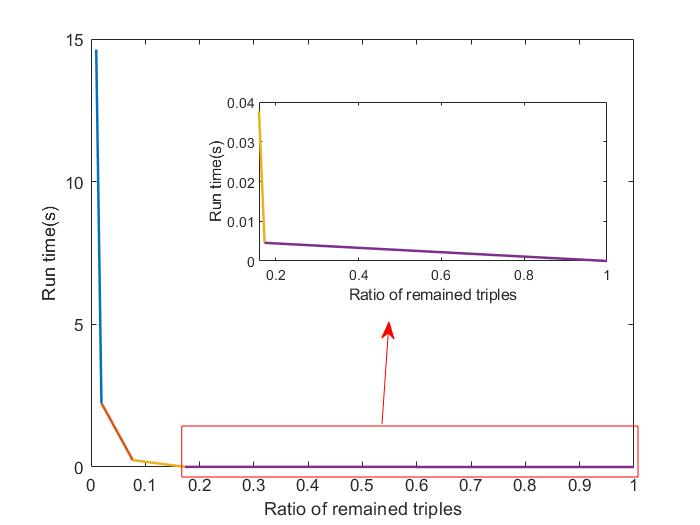
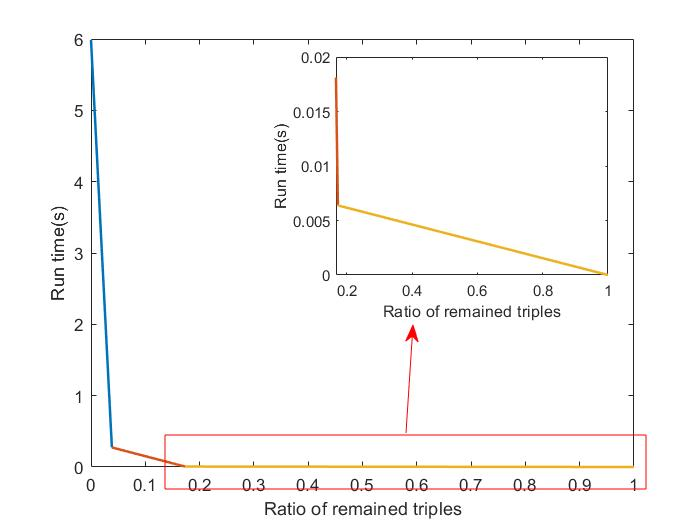
fix: change compression logic

diff --git a/multiRound.m b/multiRound.m
@@ -1,40 +1,54 @@
-function [Gn,On,conditions,Tn]=multiRound(Go,Oo,G_shared,n)
+function [Gn,On,conditions,Tn]=multiRound(Go_,Oo,G_shared,n)
+    Go=Go_;
     num=size(Go,1);
     omit_num=0;
     send_num=0;
     On=cell(1,3);
     Gn=cell(1,3);
     Tn=0;
-    conditions=cell(1,size(Oo,2));
-    tic;
-    for i=1:num
-        delta=findQuadruple(G_shared,Go(i,:));% Curresponding quadruple
-        dimensions=zeros(1,n);
-        for j=1:n-1
-            dimensions(j)=size(Oo{j},1);% The number of omitted triples
-        end
-        dimensions(n)=size(delta{2},1);% The number of relations for the current 2 entities
-        P=getPMatrix(delta,Oo,G_shared,dimensions);
-        index=-1;
-        for r=1:size(delta{2},1)
-            if strcmp(delta{2}{r},Go{i,2})
-                index=r;
-                break;
+    conditions=cell(1,n-1);
+    have_updated=0;
+    Oo_=cat(1,Oo{:});
+    while(1)
+        tic;
+        for i=1:num
+            delta=findQuadruple(G_shared,Go(i,:));
+            comb=nchoosek(1:size(Oo_,1),n-1);
+            P=getPMatrix(delta,Oo_,G_shared,comb);
+            index=-1;
+            for r=1:size(delta{2},1)
+                if strcmp(delta{2}{r},Go{i,2})
+                    index=r;
+                    break;
+                end
+            end
+            c=findP(P,index,comb);% Conditions: the indices of omitted triples
+            %if strcmp(delta{2}{index,1},Go{num,2})
+            if c(1)==-1
+                send_num=send_num+1;
+                [Gn{send_num,:}]=deal(Go{i,:});
+            else
+                have_updated=1;
+                omit_num=omit_num+1;
+                [On{omit_num,:}]=deal(Go{i,:});
+                conditions{omit_num}=c;
+                dt=toc;
+                Tn=Tn+dt;
+                tic;
             end
         end
-        c=findP(P,index);% Conditions: the indices of omitted triples
-        %if strcmp(delta{2}{index,1},Go{num,2})
-        if c(1)==-1
-            send_num=send_num+1;
-            [Gn{send_num,:}]=deal(Go{i,:});
-        else
-            omit_num=omit_num+1;
-            [On{omit_num,:}]=deal(Go{i,:});
-            conditions{omit_num}=c;
-            dt=toc;
-            Tn=Tn+dt;
-            tic;
+        if have_updated==0
+            break;
         end
+        if isempty(Gn{1})
+            break;
+        end
+        Oo_=[cat(1,Oo{:});On];
+        Go=Gn;
+        num=size(Go,1);
+        send_num=0;
+        Gn=cell(1,3);
+        have_updated=0;
     end
     dt=toc;
 end

diff --git a/getPMatrix.m b/getPMatrix.m
@@ -1,22 +1,13 @@
-function P=getPMatrix(delta,Oo,G_shared,dimensions)
-    depth=length(dimensions);
-    i=ones(1,depth-1);
-    i=num2cell(i);
-    P=zeros(dimensions);
-    while(1)
-        %% Counter
-        for count=1:depth-1
-            if i{count}>dimensions(count)
-                i{count}=1;
-                i{count+1}=i{count+1}+1;
-            end
-        end
+function P=getPMatrix(delta,Oo,G_shared,comb)
+    depth=size(comb,2);
+    P=zeros(size(comb,1),size(delta{2},1));
+    for c=1:size(comb,1)
         %% Calculate P
         O_n=cell(1,depth);
         Ns=[];
         flag=0;
-        for p=1:depth-1
-            O_n{p}=Oo{p}(i{p},:);
+        for p=1:depth
+            O_n{p}=Oo(comb(c,p),:);
             sample_s=[];
             for d=1:size(G_shared,1)
                 if (strcmp(G_shared{d,1},O_n{p}{1})&&strcmp(G_shared{d,3},O_n{p}{3}))
@@ -38,19 +29,13 @@ function P=getPMatrix(delta,Oo,G_shared,dimensions)
         sample_k=[];
         for r =1:size(delta{2},1)
             sample_k=union(sample_k,delta{2}{r,2});
-            P(i{:},r)=length(intersect(delta{2}{r,2},Ns));
+            P(c,r)=length(intersect(delta{2}{r,2},Ns));
         end
         sample_k=intersect(sample_k,Ns);
         if sample_k~=0
-            P(i{:},:)=P(i{:},:)/length(sample_k);
+            P(c,:)=P(c,:)/length(sample_k);
         else
-            P(i{:},:)=0;
-        end
-        %% Counter
-        if all(cell2mat(i)==dimensions(1:depth-1))
-            break;
-        else
-            i{1}=i{1}+1;
+            P(c,:)=0;
         end
     end
 end

diff --git a/findP.m b/findP.m
@@ -1,37 +1,20 @@
-function conditions=findP(P,index)
+function conditions=findP(P,index,comb)
     dimensions=size(P);
-    depth=length(dimensions);
-    i=ones(1,depth-1);
-    i=num2cell(i);
-    conditions=ones(1,depth-1);
-    conditions=conditions*-1;
-    while(1)
-        %% Counter
-        for count=1:depth-1
-            if i{count}>dimensions(count)
-                i{count}=1;
-                i{count+1}=i{count+1}+1;
-            end
-        end
-       %[maxItem,maxIndex]=max(P(i{:},:));
+    depth=size(comb,1);
+    conditions=-1;
+    for i=1:depth
        maxItem=-1;
        for k=1:dimensions(end)
-           if P(i{:},k)>maxItem
-               maxItem=P(i{:},k);
+           if P(i,k)>maxItem
+               maxItem=P(i,k);
                maxIndex=k;
-           elseif P(i{:},k)==maxItem
+           elseif P(i,k)==maxItem
                maxIndex=-1;
            end
        end
        if (maxItem>0&&maxIndex==index)
-           conditions=cell2mat(i);
+           conditions=comb(i,:);
            break;
        end
-        %% Counter
-        if all(cell2mat(i)==dimensions(1:depth-1))
-            break;
-        else
-            i{1}=i{1}+1;
-        end
     end
 end
